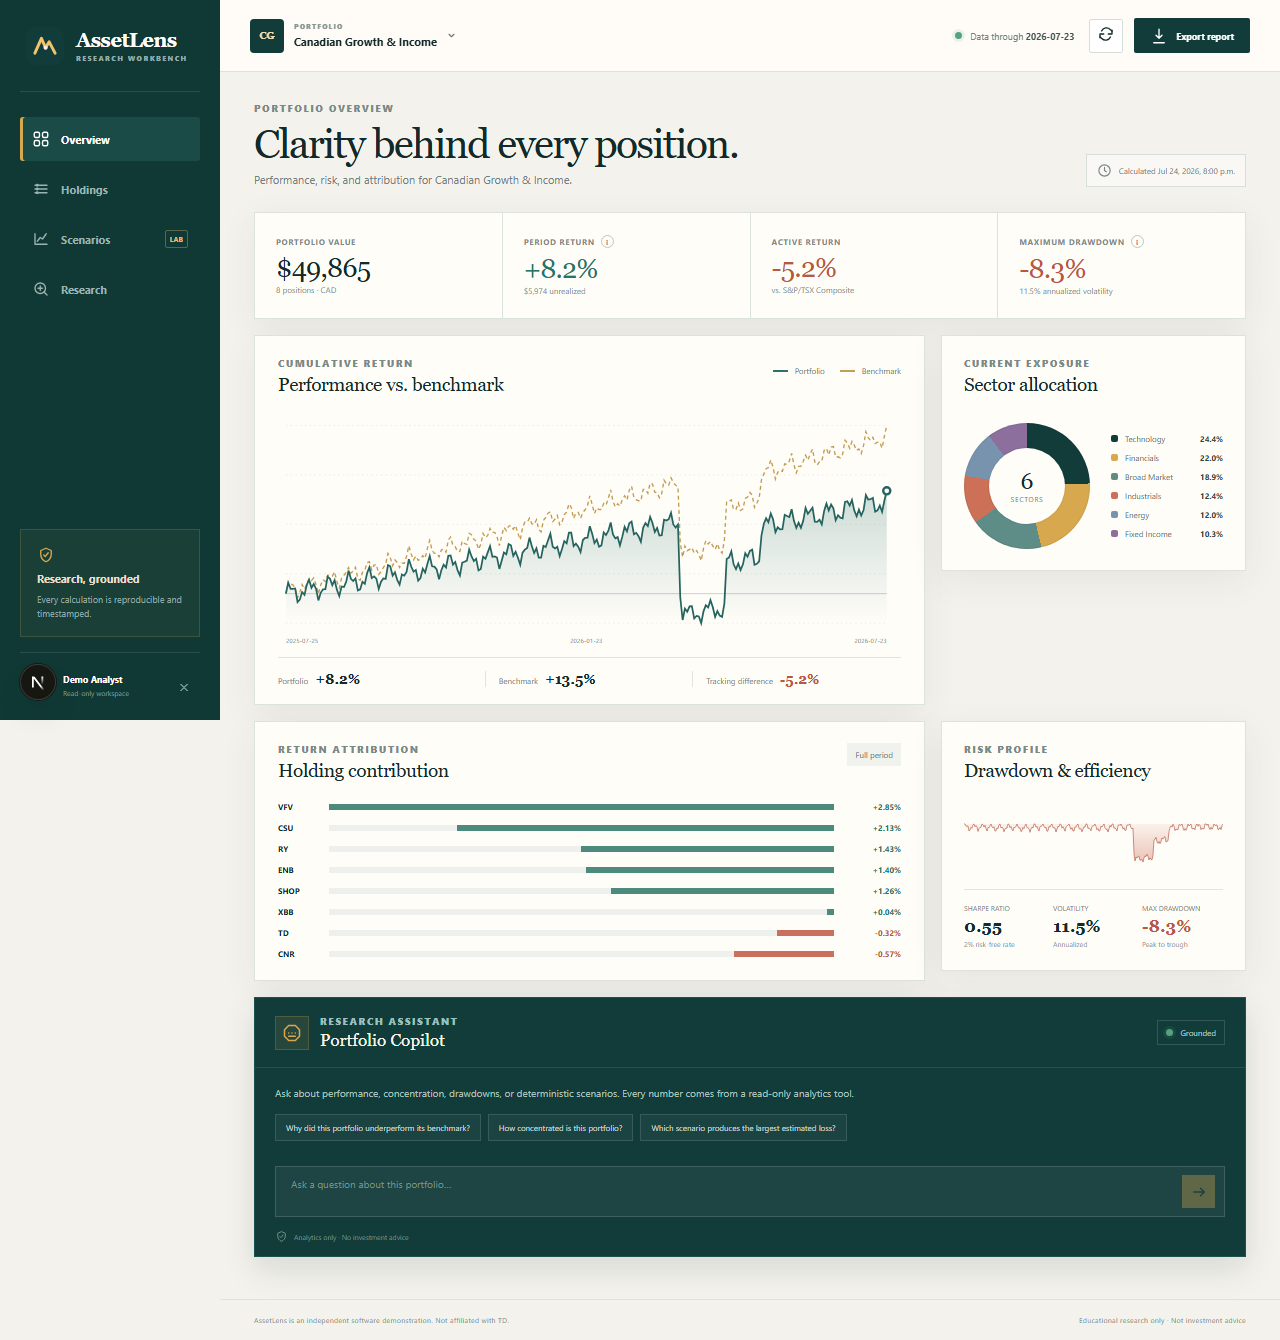
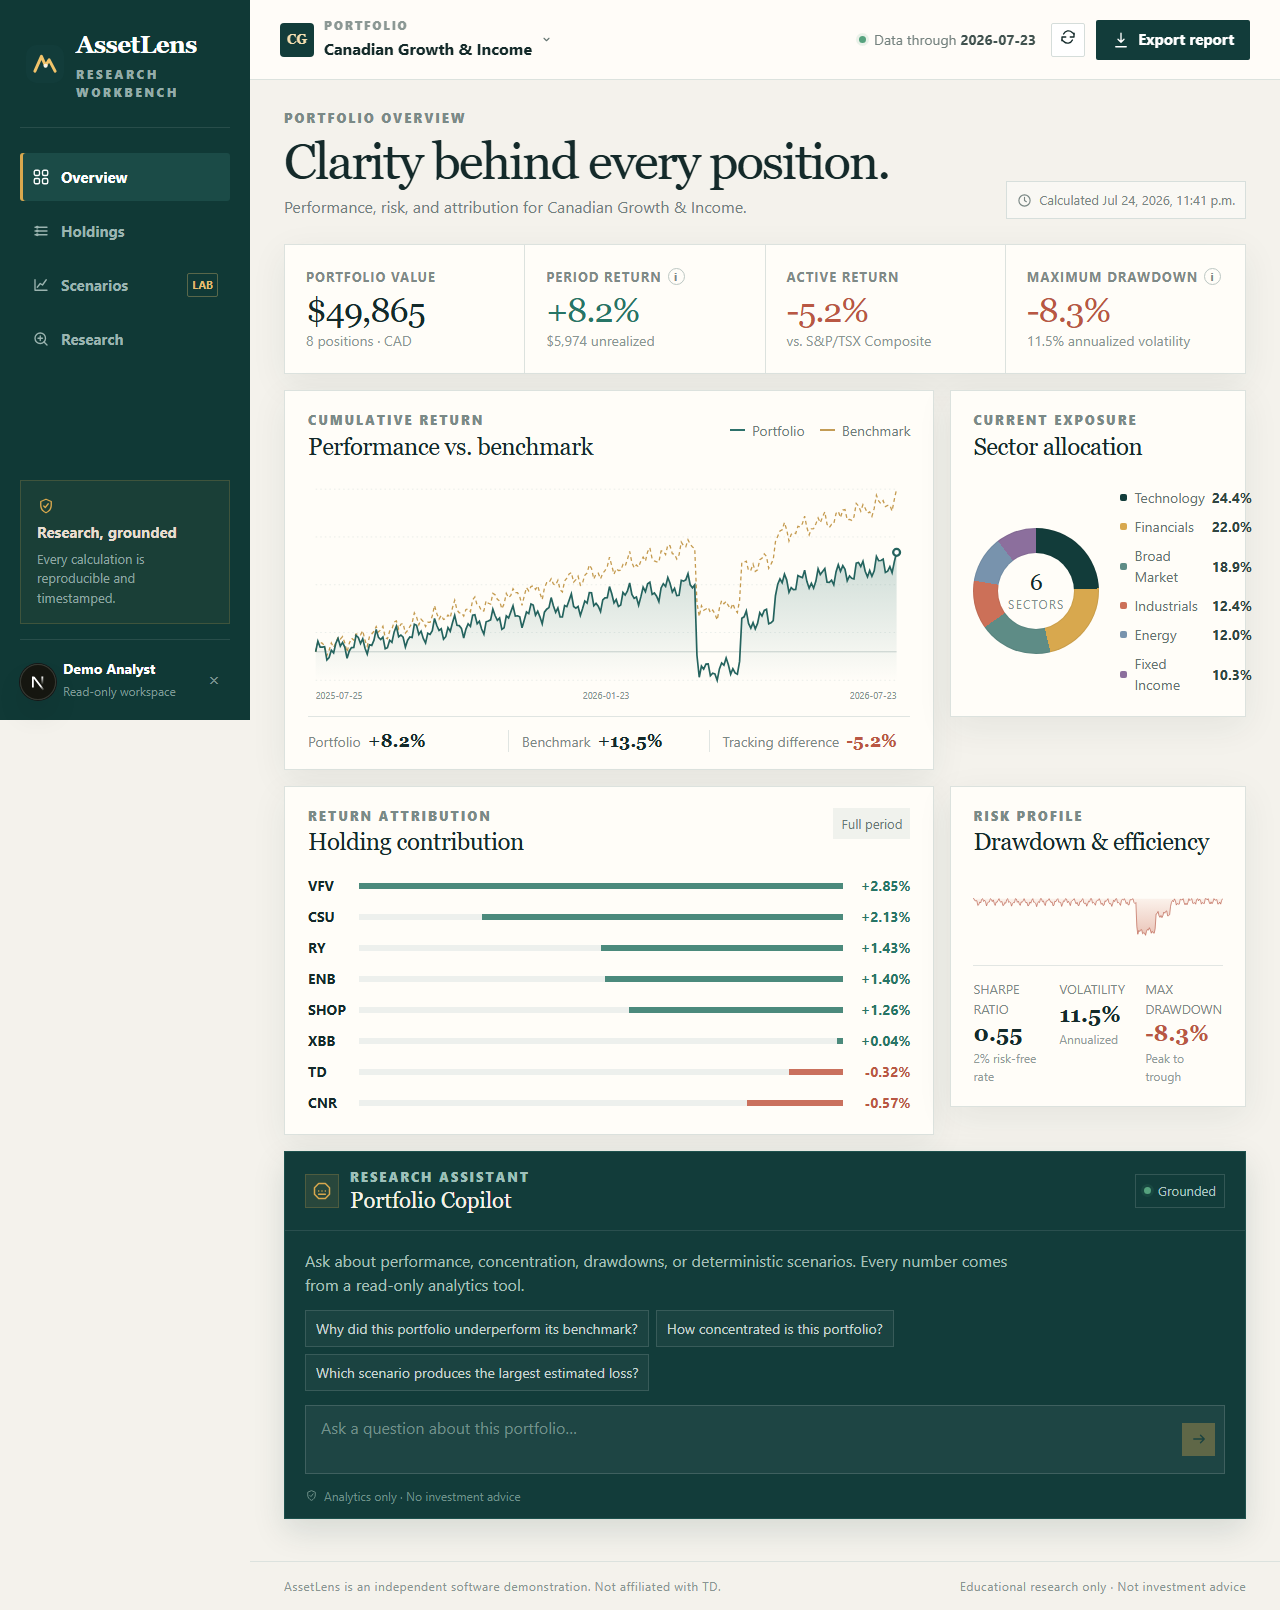
style: increase typography scale

diff --git a/apps/web/app/styles.css b/apps/web/app/styles.css
@@ -14,6 +14,12 @@
   --shadow: 0 10px 34px rgb(29 54 51 / 7%);
   --serif: Georgia, "Times New Roman", serif;
   --sans: "Avenir Next", Avenir, "Segoe UI", Helvetica, Arial, sans-serif;
+  --text-caption: 12px;
+  --text-meta: 13px;
+  --text-small: 14px;
+  --text-control: 15px;
+  --text-body: 16px;
+  --text-lead: 18px;
 }
 
 * { box-sizing: border-box; }
@@ -301,6 +307,77 @@ button:focus-visible, input:focus-visible, select:focus-visible, textarea:focus-
 .loading-screen .spinner { margin-bottom: 5px; }
 footer { display: flex; justify-content: space-between; margin-top: auto; padding: 15px 34px; border-top: 1px solid #dce2de; color: #899592; font-size: 7px; letter-spacing: .04em; }
 
+/* Readable type scale */
+html, body { font-size: var(--text-body); line-height: 1.5; }
+.eyebrow { font-size: var(--text-meta); }
+.brand span, .login-disclaimer, .login-rule, .secure-note { font-size: var(--text-caption); }
+.feature-row strong, .demo-summary strong, .enter-button, .login-list { font-size: var(--text-body); }
+.feature-row small, .login-box > p, .demo-summary span { font-size: var(--text-small); }
+.demo-chip { font-size: var(--text-meta); }
+.login-list span { font-size: var(--text-caption); }
+
+.sidebar { width: 250px; }
+.sidebar .brand strong { font-size: 24px; }
+.sidebar nav button { height: 48px; font-size: var(--text-control); }
+.sidebar nav button i { font-size: 11px; }
+.sidebar-callout strong { font-size: var(--text-control); }
+.sidebar-callout p { font-size: var(--text-meta); }
+.user-card > span, .user-card small { font-size: var(--text-caption); }
+.user-card strong { font-size: var(--text-small); }
+.main { margin-left: 250px; width: calc(100% - 250px); }
+.topbar { height: 80px; flex-basis: 80px; }
+.portfolio-monogram { font-size: var(--text-meta); }
+.portfolio-select-wrap label { font-size: var(--text-caption); }
+.portfolio-select-wrap select { font-size: var(--text-body); }
+.data-freshness { font-size: var(--text-small); }
+.export-button, .primary-button { height: 40px; font-size: var(--text-control); }
+.global-error, .page-heading p { font-size: var(--text-body); }
+.page-heading h1 { font-size: clamp(40px, 4vw, 54px); }
+.asof-chip { font-size: var(--text-meta); }
+
+.metric-card { min-height: 128px; }
+.metric-label { font-size: var(--text-meta); }
+.info-dot { width: 17px; height: 17px; font-size: 11px; }
+.metric-card > strong { font-size: 34px; }
+.metric-card small { font-size: var(--text-small); }
+.card-head h2, .scenario-builder h2, .compact-card h2 { font-size: 24px; }
+.chart-legend-inline, .chart-summary span, .legend-row, .warning-note { font-size: var(--text-small); }
+.axis-label { font-size: var(--text-caption); }
+.chart-summary strong { font-size: var(--text-lead); }
+.donut-hole small { font-size: var(--text-caption); }
+.period-pill, .risk-metrics span { font-size: var(--text-meta); }
+.attribution-row > strong, .attribution-row > span { font-size: var(--text-small); }
+.risk-metrics strong { font-size: 22px; }
+.risk-metrics small { font-size: var(--text-caption); }
+
+.copilot-head h2 { font-size: 22px; }
+.grounded-pill, .tool-list code { font-size: var(--text-meta); }
+.copilot-intro, .copilot-form textarea, .copilot-response p { font-size: var(--text-body); }
+.suggestions button, .copilot-response summary, .inline-error { font-size: var(--text-small); }
+.copilot-foot, .tool-list small, .response-meta { font-size: var(--text-caption); }
+
+.total-value { font-size: var(--text-lead); }
+.table-tools > span, .import-message, .scenario-options small, .value-bridge span,
+.assumptions, .security-list button, .watch-row, .empty-copy { font-size: var(--text-small); }
+.search-box { height: 40px; }
+.search-box input, .holdings-table td, .security-cell strong, .icon-title p,
+.create-row input, .scenario-builder > p, .scenario-options strong, .run-button,
+.empty-scenario p, .impact-percent, .impact-list > div, .security-info strong {
+  font-size: var(--text-body);
+}
+.holdings-table { min-width: 1080px; }
+.holdings-table th, .security-cell small, .sector-tag, .security-info > span,
+.ticker-box { font-size: var(--text-meta); }
+.security-cell > span { font-size: var(--text-caption); }
+.icon-title h2 { font-size: 23px; }
+.file-button, .create-row button { font-size: var(--text-control); }
+.empty-scenario h2 { font-size: 28px; }
+.value-bridge strong, .scenario-results h3 { font-size: 20px; }
+.security-list b { font-size: var(--text-body); }
+.compact-card .card-head > span { font-size: var(--text-small); }
+.loading-screen { margin-left: 250px; font-size: var(--text-body); }
+footer { font-size: var(--text-caption); }
+
 @media (max-width: 1120px) {
   .login-page { grid-template-columns: 1fr 430px; }
   .login-story { padding: 38px 50px; }
@@ -342,15 +419,15 @@ footer { display: flex; justify-content: space-between; margin-top: auto; paddin
 @media (max-width: 560px) {
   .feature-row { grid-template-columns: 1fr; gap: 18px; }
   .login-copy h1 { font-size: 44px; }
-  .login-copy > p { font-size: 15px; }
+  .login-copy > p { font-size: 16px; }
   .topbar { height: 64px; padding: 0 12px; }
   .portfolio-select-wrap label, .portfolio-monogram { display: none; }
   .portfolio-select-wrap select { max-width: 160px; }
   .export-button { width: 35px; padding: 0; justify-content: center; font-size: 0; }
   .content { padding: 22px 13px; }
-  .page-heading h1 { font-size: 32px; }
+  .page-heading h1 { font-size: 36px; }
   .metric-strip { grid-template-columns: 1fr; }
-  .metric-card { min-height: 90px; }
+  .metric-card { min-height: 112px; }
   .chart-summary { grid-template-columns: 1fr; gap: 8px; }
   .chart-summary div { border: 0; padding: 0; }
   .allocation-layout { flex-direction: column; }

diff --git a/tests/e2e/demo.spec.ts b/tests/e2e/demo.spec.ts
@@ -8,7 +8,8 @@ test("reviewer can enter the seeded portfolio and inspect analytics", async ({ p
   await expect(page.getByText("Performance vs. benchmark")).toBeVisible();
   await page.screenshot({ path: "docs/screenshots/dashboard.png", fullPage: true });
   await page.getByRole("button", { name: "Scenarios" }).click();
+  await page.evaluate(() => window.scrollTo(0, 0));
   await page.getByRole("button", { name: /run scenario/i }).click();
   await expect(page.getByText("ESTIMATED IMPACT")).toBeVisible();
-  await page.screenshot({ path: "docs/screenshots/scenario.png", fullPage: true });
+  await page.screenshot({ path: "docs/screenshots/scenario.png" });
 });
